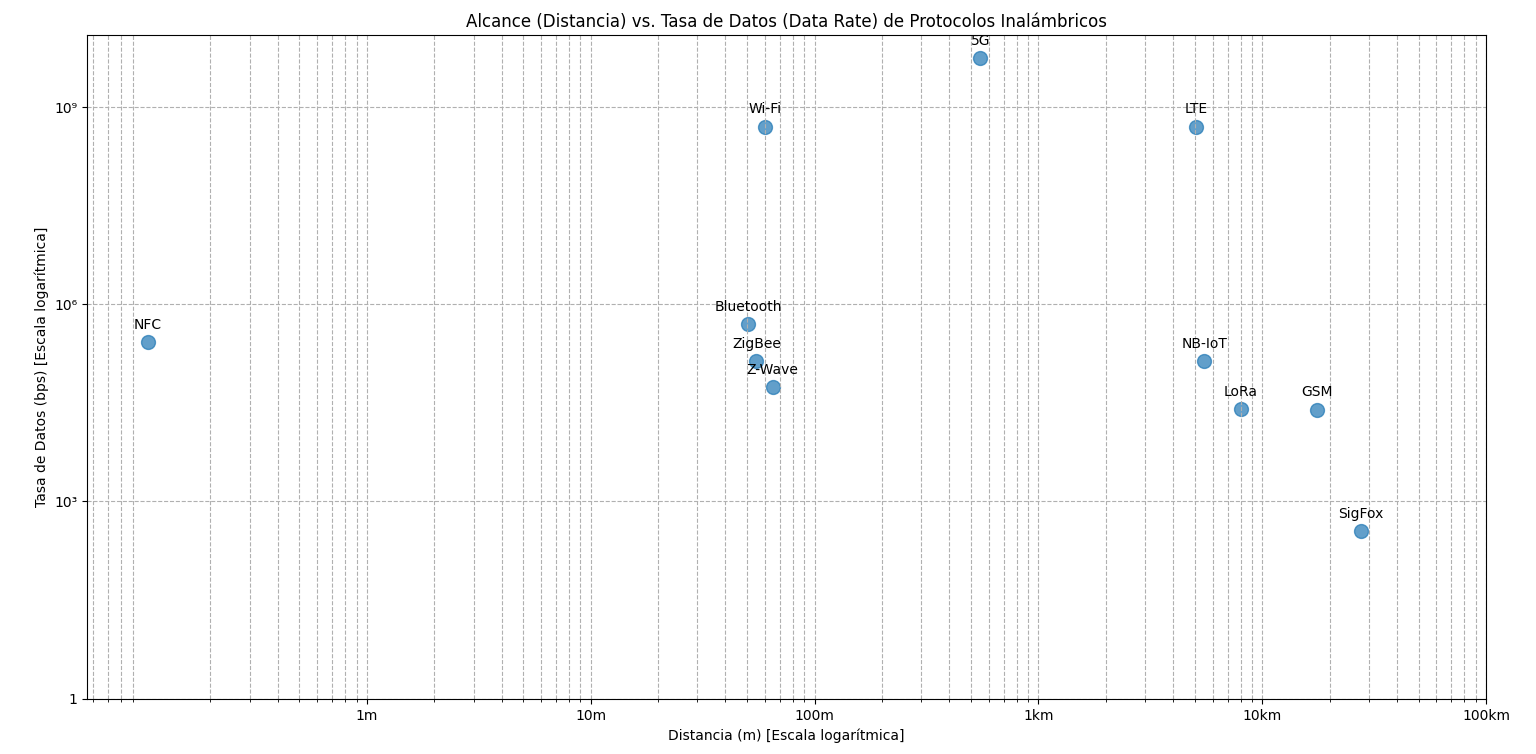
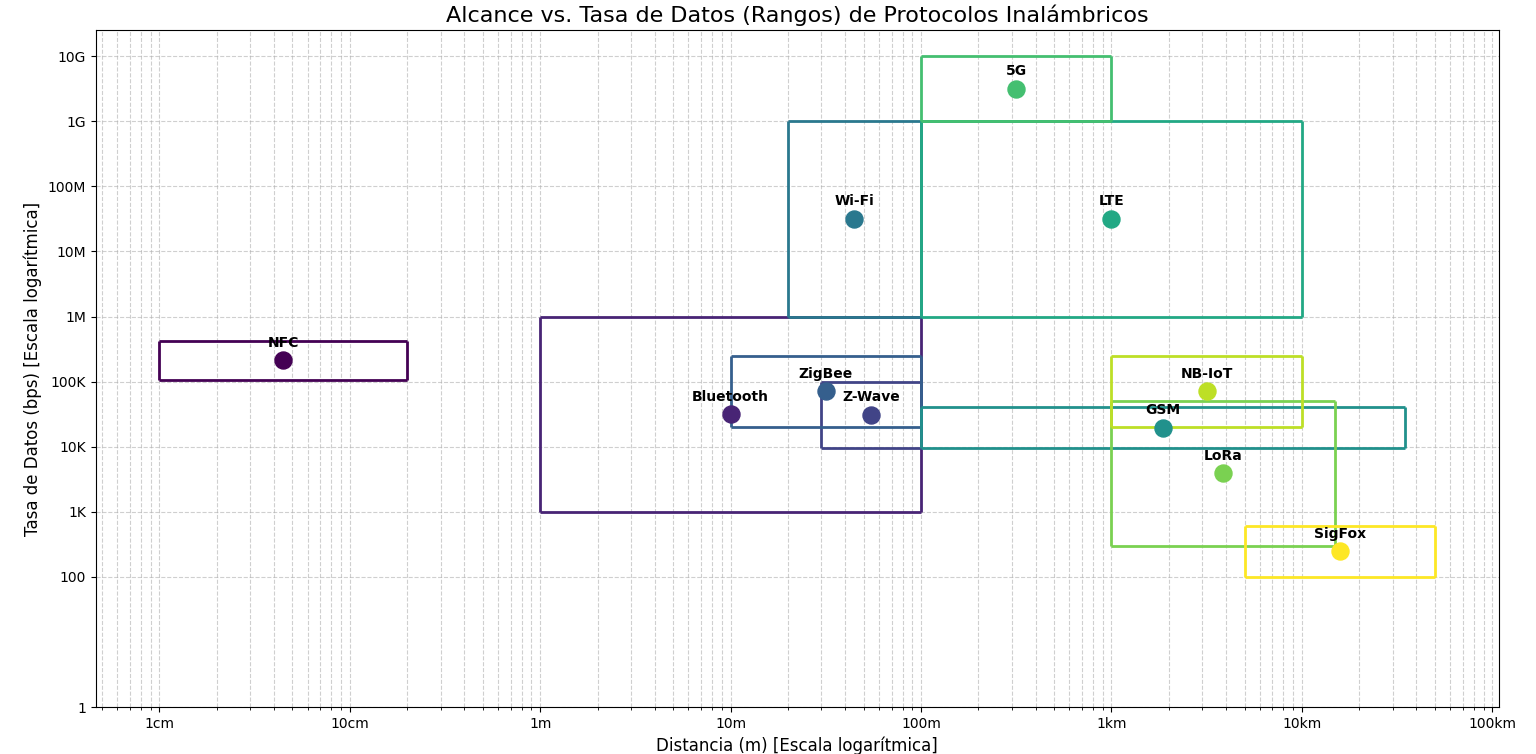
Correccion tabla datarate/distancia

diff --git a/TP-3/Archivos/tabla.py b/TP-3/Archivos/tabla.py
@@ -1,0 +1,57 @@
+import pandas as pd
+import matplotlib.pyplot as plt
+
+# Datos de los protocolos: {protocolo: [alcance_min, alcance_max, data_rate_min, data_rate_max]}
+datos = {
+    'Wi-Fi': [20, 100, 1e6, 1e9],
+    'Bluetooth': [1, 100, 1e3, 1e6],
+    'ZigBee': [10, 100, 20e3, 250e3],
+    'NFC': [0.01, 0.20, 106e3, 424e3],
+    'LTE': [100, 10000, 1e6, 1e9],
+    'GSM': [100, 35000, 9.6e3, 40e3],
+    '5G': [100, 1000, 1e9, 10e9],
+    'LoRa': [1000, 15000, 300, 50e3],
+    'NB-IoT': [1000, 10000, 20e3, 250e3],
+    'SigFox': [5000, 50000, 100, 600],
+    'Z-Wave': [30, 100, 9.6e3, 100e3],
+}
+
+# Crear listas para los puntos del gráfico
+nombres_protocolos = []
+distancias_promedio = []
+data_rates_promedio = []
+
+for protocolo, valores in datos.items():
+    nombres_protocolos.append(protocolo)
+    # Calcular el valor promedio para el gráfico
+    distancia_promedio = (valores[0] + valores[1]) / 2
+    data_rate_promedio = (valores[2] + valores[3]) / 2
+    
+    distancias_promedio.append(distancia_promedio)
+    data_rates_promedio.append(data_rate_promedio)
+
+# Crear el DataFrame de pandas para mostrar los datos en forma de tabla
+df = pd.DataFrame({
+    'Protocolo': nombres_protocolos,
+    'Distancia (m)': distancias_promedio,
+    'Data Rate (bps)': data_rates_promedio
+})
+
+plt.figure(figsize=(12, 8))
+plt.scatter(df['Distancia (m)'], df['Data Rate (bps)'], s=150, alpha=0.8, color='b')
+
+for i, txt in enumerate(nombres_protocolos):
+    plt.annotate(txt, (df['Distancia (m)'][i], df['Data Rate (bps)'][i]), textcoords="offset points", xytext=(0,10), ha='center', fontsize=9)
+
+plt.xscale('log')
+plt.yscale('log')
+
+plt.title('Alcance vs. Tasa de Datos de Protocolos Inalámbricos')
+plt.xlabel('Distancia (m) [Escala logarítmica]')
+plt.ylabel('Tasa de Datos (bps) [Escala logarítmica]')
+plt.grid(True, which="both", ls="--", alpha=0.6)
+plt.xticks([1, 10, 100, 1000, 10000], ['1m', '10m', '100m', '1km', '10km'])
+plt.yticks([1, 1e3, 1e6, 1e9], ['1', '1K', '1M', '1G'])
+
+plt.tight_layout()
+plt.show()

diff --git a/TP-3/Trabajo Practico N3.md b/TP-3/Trabajo Practico N3.md
@@ -118,7 +118,9 @@ a)
 
 El 3GPP (3rd Generation Partnership Project) es el organismo que define los estándares de telecomunicaciones móviles (2G, 3G, 4G, 5G y ahora 6G).
 
-b) <p style="text-align:center"><img src='Archivos/Tabla.png' alt='ip' ancho="50" alto="100">
+b) En la tabla se muestran los rangos de valores tanto para la tasa de transmision como para el alcance de cada uno de los protocolos. El punto en el centro indica su valor promedio.
+
+<p style="text-align:center"><img src='Archivos/Tabla.png' alt='ip' ancho="50" alto="100">
 
 c)
 | Característica                  | UTP                           | Fibra Óptica                         | Wi-Fi 802.11be (Wi-Fi 7)                 | Bluetooth 5.4                 | 5G                                |
